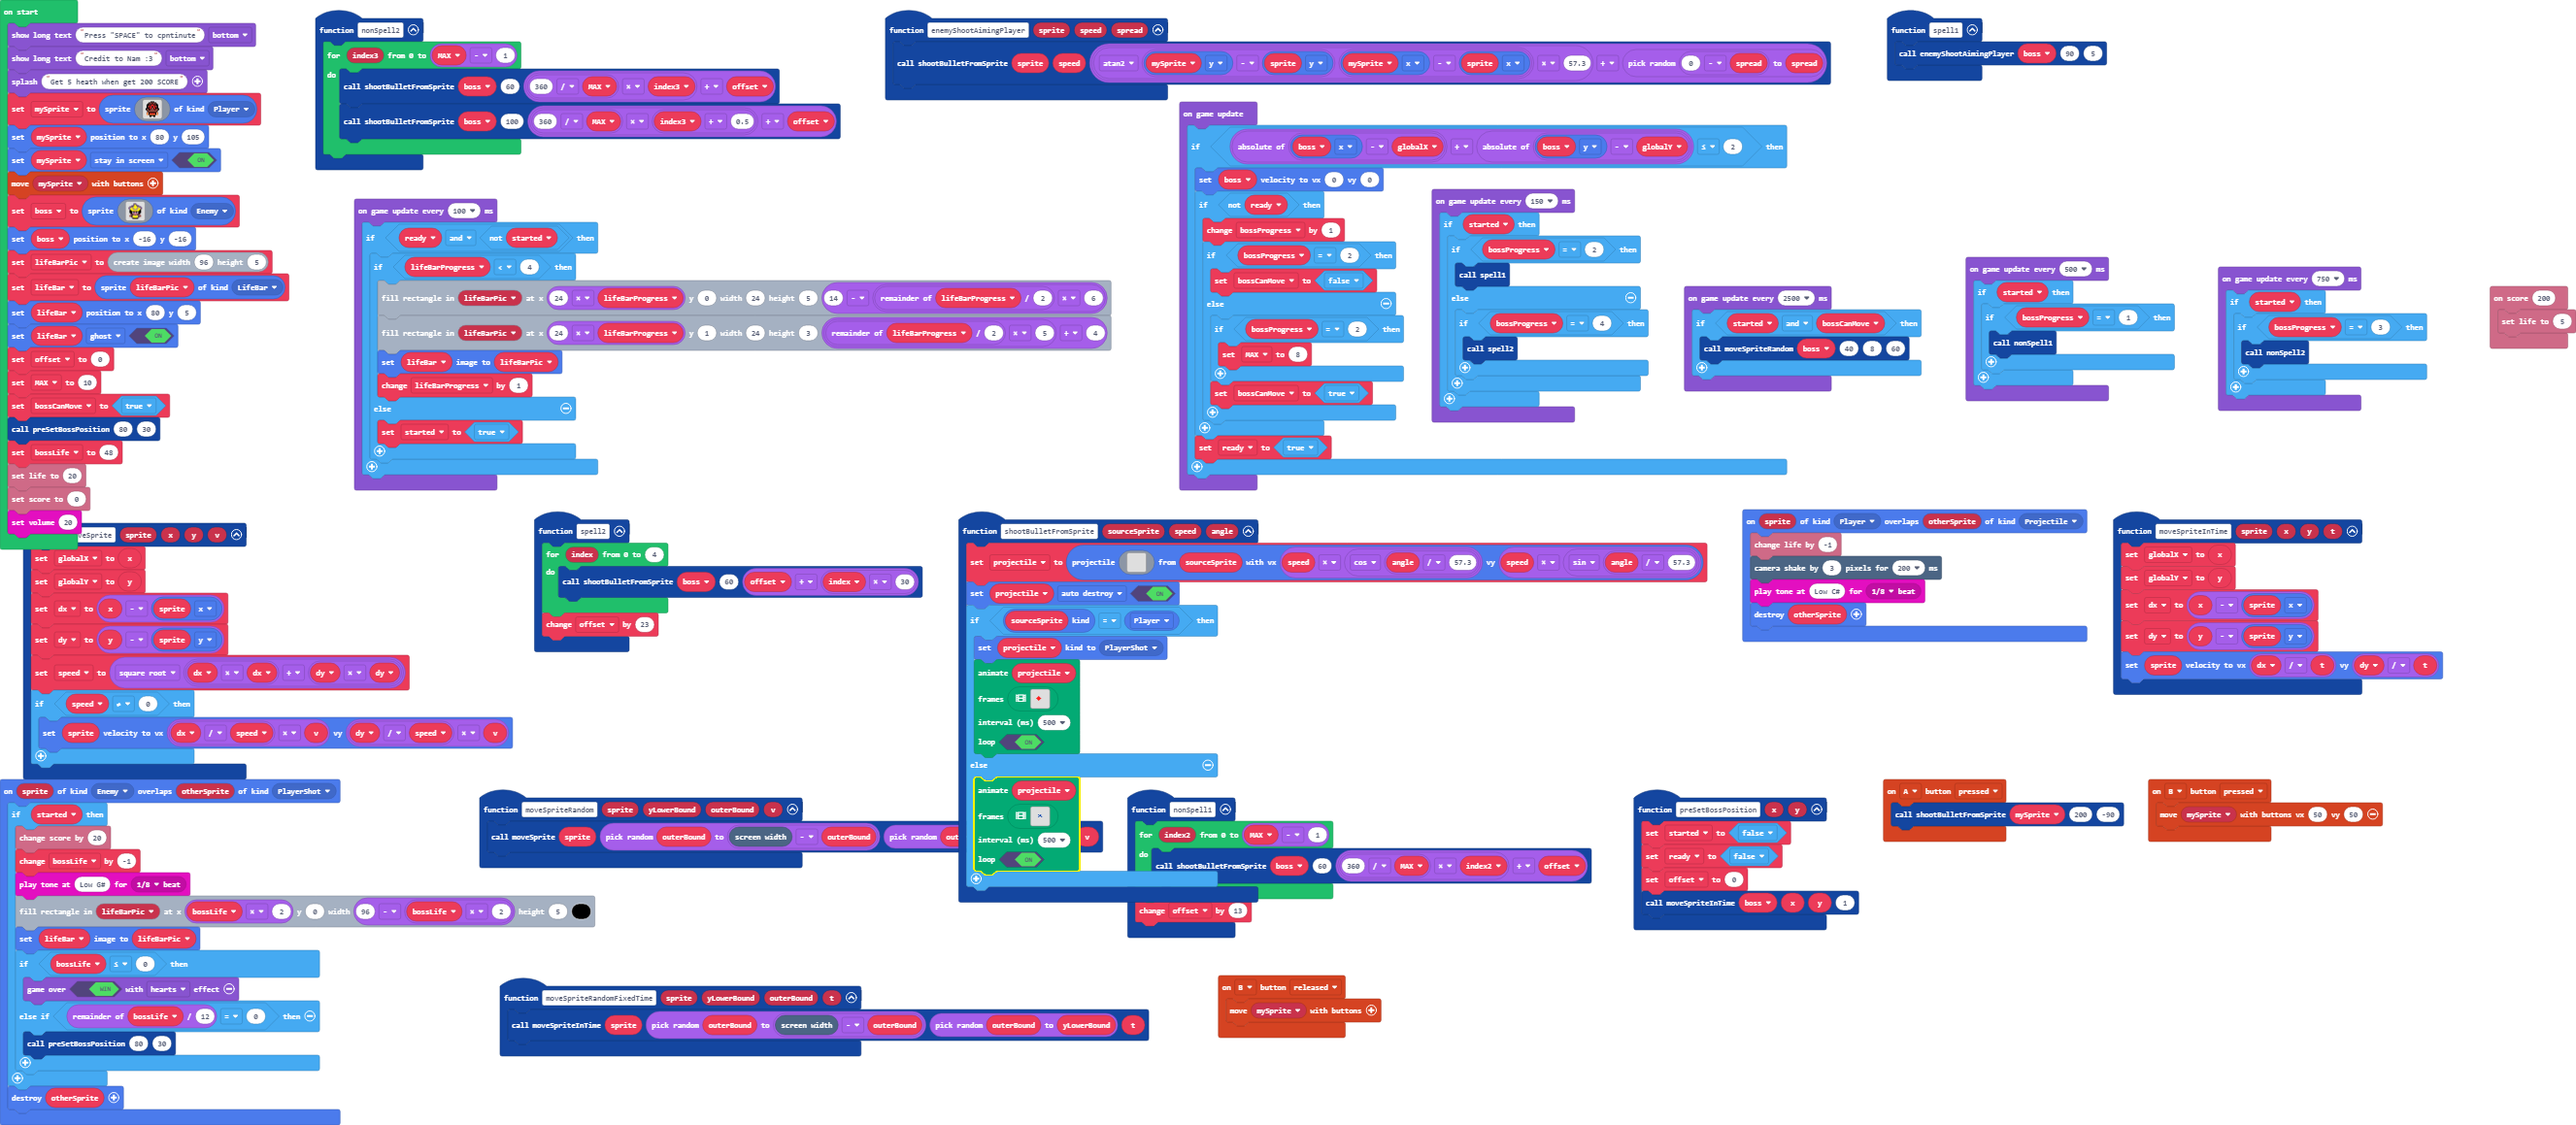
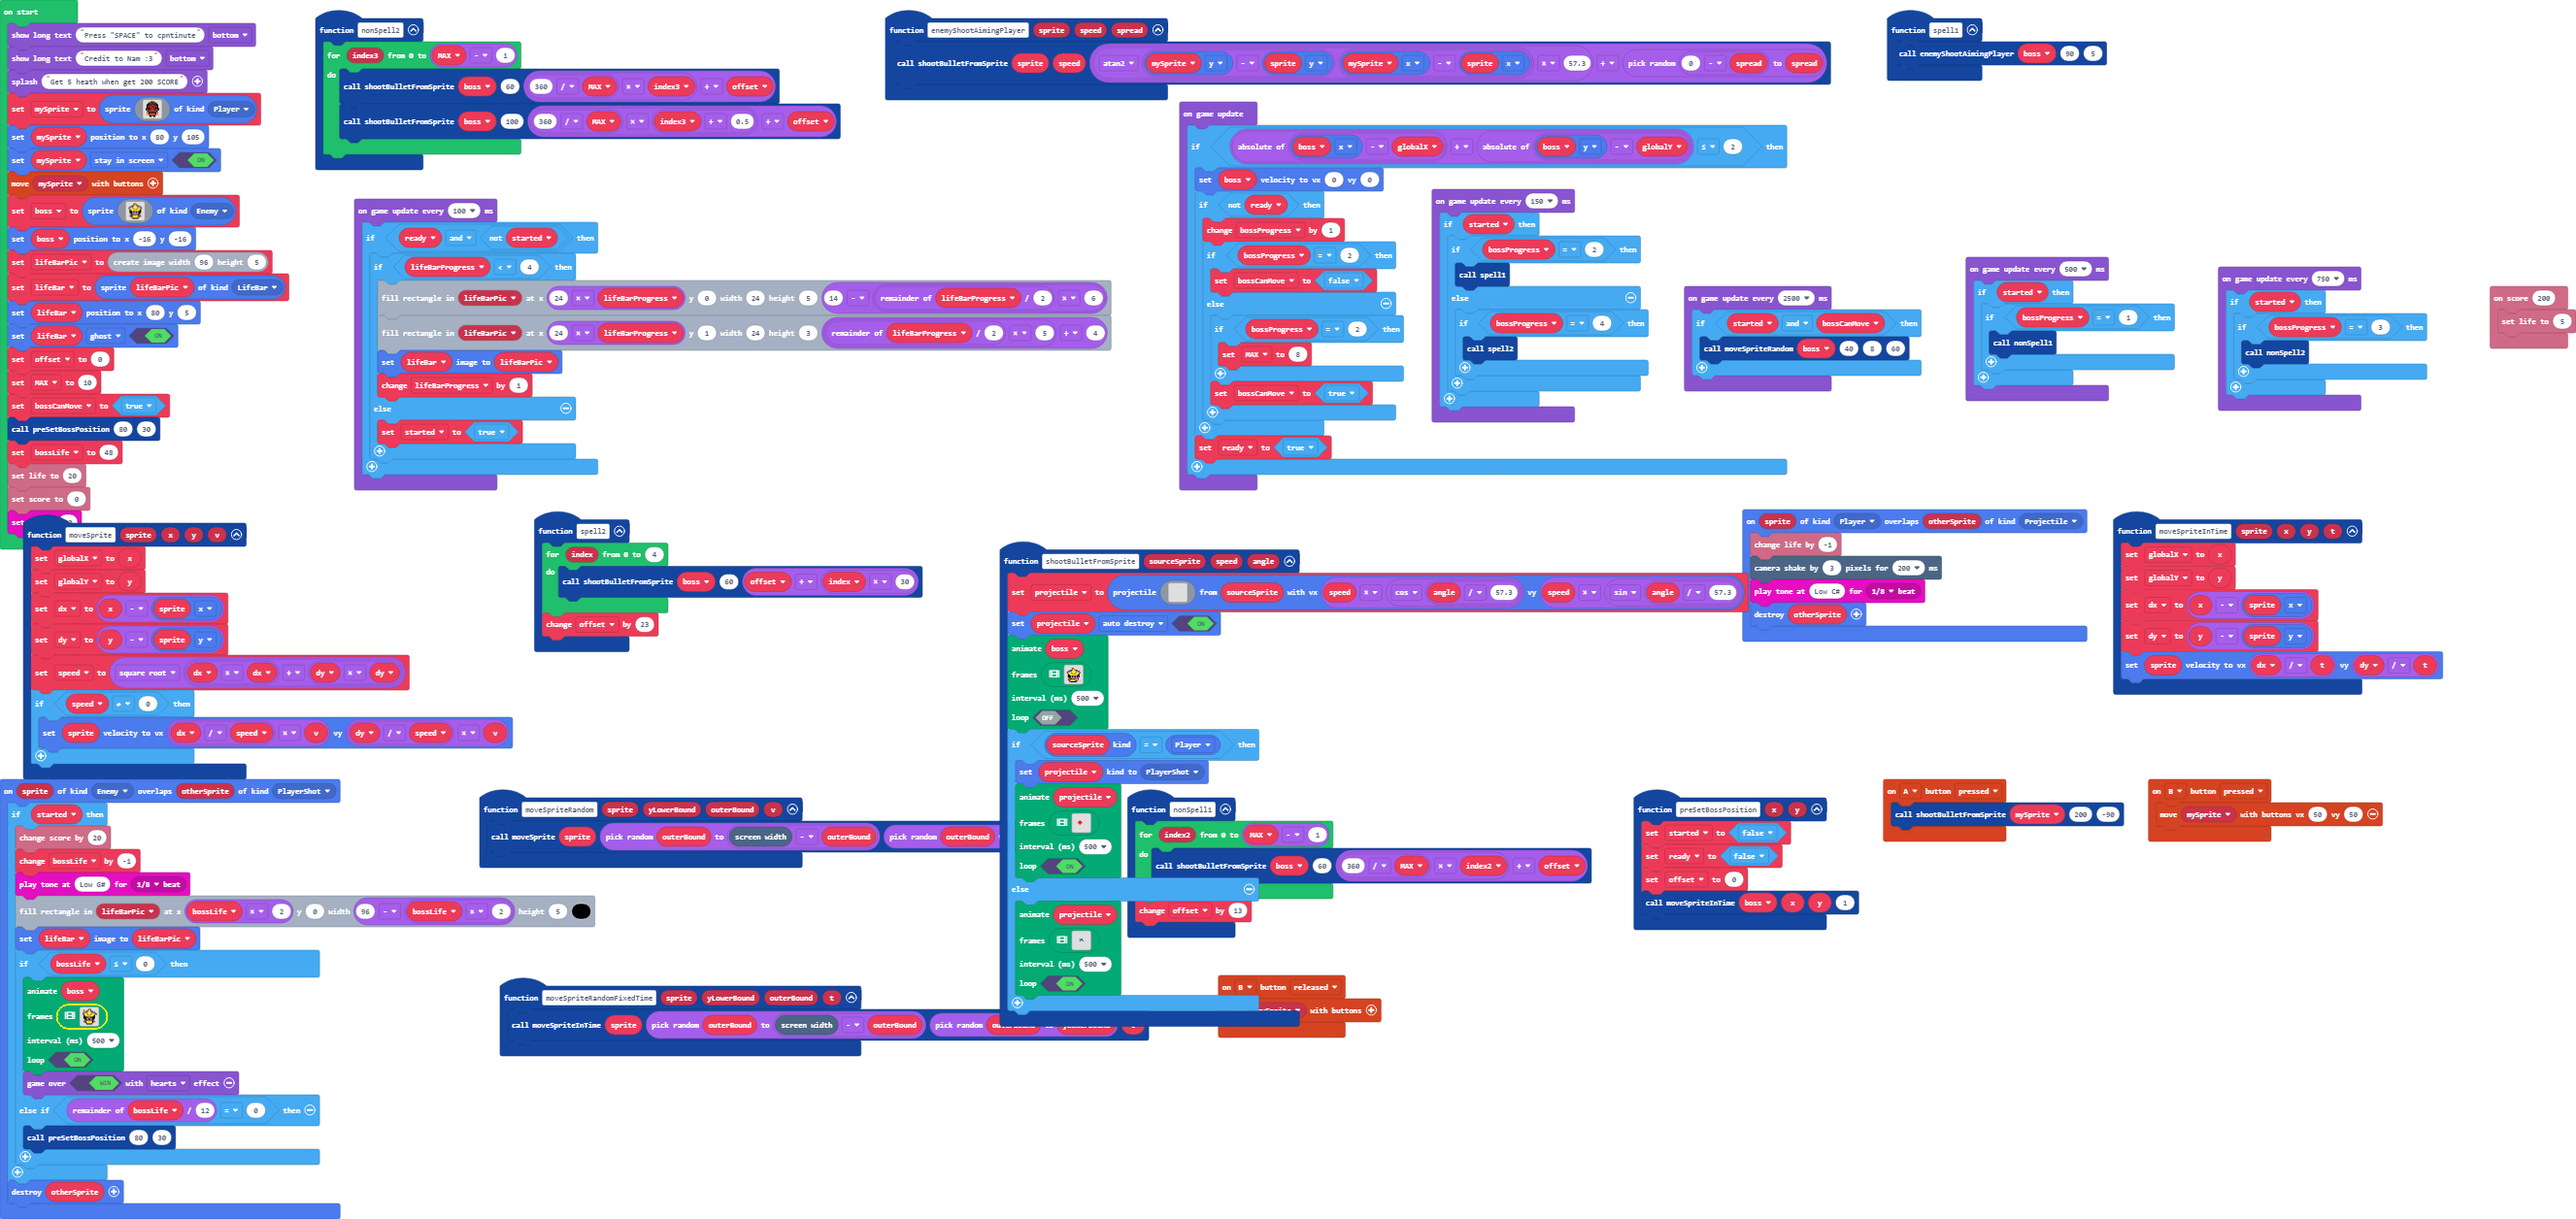
Make enemy animation

diff --git a/main.ts b/main.ts
@@ -17,6 +17,46 @@ sprites.onOverlap(SpriteKind.Enemy, SpriteKind.PlayerShot, function (sprite, oth
         lifeBarPic.fillRect(bossLife * 2, 0, 96 - bossLife * 2, 5, 15)
         lifeBar.setImage(lifeBarPic)
         if (bossLife <= 0) {
+            animation.runImageAnimation(
+            boss,
+            [img`
+                . 5 . 5 . . . c c c . . . . . . 
+                . . f . . . c b 5 c . . . . . 5 
+                . 5 . 5 c c c 5 5 c c c . . . 5 
+                . . c c b c 5 5 5 5 c c c c . 5 
+                . c b b 5 b 5 5 5 5 b 5 b b c . 
+                . c b 5 5 b b 5 5 b b 5 5 b c f 
+                . . f 5 5 5 b b b b 5 5 5 c . . 
+                . . f f 5 5 5 5 5 5 5 5 f f . . 
+                . . f f f f f e e f f f f f . . 
+                . . f f f b b b b b b f f f . . 
+                . . . f f b b f f b b f f . . . 
+                . . . e e f e e e e f e e . . . 
+                . . e b c b 5 b b 5 b f b e . . 
+                . . e e f 5 5 5 5 5 5 f e e . . 
+                . . . . c b 5 5 5 5 b c . . . . 
+                . . . . . f f f f f f . . . . . 
+                `,img`
+                . 5 . 5 . . . c c c . . . . . . 
+                . . 2 . . . c b 5 c . . . . . 5 
+                . 5 . 5 c c c 5 5 c c c . . . 5 
+                . . c c b c 5 5 5 5 c c c c . 5 
+                . c b b 5 b 5 5 5 5 b 5 b b c . 
+                . c b 5 5 b b 5 5 b b 5 5 b c 2 
+                . . f 5 5 5 b b b b 5 5 5 c . . 
+                . . f f 5 5 5 5 5 5 5 5 f f . 2 
+                2 . f f f f f e e f f f f f . . 
+                . . f f f b b b b b b f f f . . 
+                . . . f f b b f f b b f f . . 2 
+                . . . e e f e e e e f e e . . . 
+                . . e b c b 5 b b 5 b f b e . . 
+                . . e e f 5 5 5 5 5 5 f e e . . 
+                2 . . . c b 5 5 5 5 b c . . . . 
+                . . . . . f f f f f f . . . . . 
+                `],
+            500,
+            true
+            )
             game.over(true, effects.hearts)
         } else if (bossLife % 12 == 0) {
             preSetBossPosition(80, 30)
@@ -95,6 +135,46 @@ function shootBulletFromSprite (sourceSprite: Sprite, speed: number, angle: numb
         . . . . . . . . . . . . . . . . 
         `, sourceSprite, speed * Math.cos(angle / 57.3), speed * Math.sin(angle / 57.3))
     projectile.setFlag(SpriteFlag.AutoDestroy, true)
+    animation.runImageAnimation(
+    boss,
+    [img`
+        . . . . . . . . . . . . . . . . 
+        . . . . . . c c . . . . . . . . 
+        . . . . . . c 5 c . . . . . . . 
+        . . . . c c c 5 5 c c c . . . . 
+        . . c c c c 5 5 5 5 c b c c . . 
+        . c b b 5 b 5 5 5 5 b 5 b b c . 
+        . c b 5 5 b b 5 5 b b 5 5 b c . 
+        . . c 5 5 5 b b b b 5 5 5 f . . 
+        . . f f 5 5 5 5 5 5 5 5 f f . . 
+        . . f f f b f e e f b f f f . . 
+        . . f f f 1 f b b f 1 f 3 f . . 
+        . . . f f b b b b e e 3 f . . . 
+        . . e b b f e e e e b 3 e 3 . . 
+        . . e e f 5 5 b b 3 b b e . . . 
+        . . . f 5 5 5 5 5 e e c . . 3 . 
+        . . . . f f f f f f f . 3 . . . 
+        `,img`
+        . . . . . . . . . . . . . . . . 
+        . . . . . . c c . . . . . . . . 
+        . . . . . . c 5 c . . . . . . . 
+        . . . . c c c 5 5 c c c . . . . 
+        . . c c c c 5 5 5 5 c b c c . . 
+        . c b b 5 b 5 5 5 5 b 5 b b c . 
+        . c b 5 5 b b 5 5 b b 5 5 b c . 
+        . . c 5 5 5 b b b b 5 5 5 f . . 
+        . . f f 5 5 5 5 5 5 5 5 f f . . 
+        . . f f f b f e e f b f f f . . 
+        . . f f f 1 f b b f 1 f f f . . 
+        . . . f f b b b b e e e f . . . 
+        . . e b b f e e e e b b e . . . 
+        . . e e f 5 5 b b e b b e . . . 
+        . . . f 5 5 5 5 5 e e c . . . . 
+        . . . . f f f f f f f . . . . . 
+        `],
+    500,
+    false
+    )
     if (sourceSprite.kind() == SpriteKind.Player) {
         projectile.setKind(SpriteKind.PlayerShot)
         animation.runImageAnimation(
